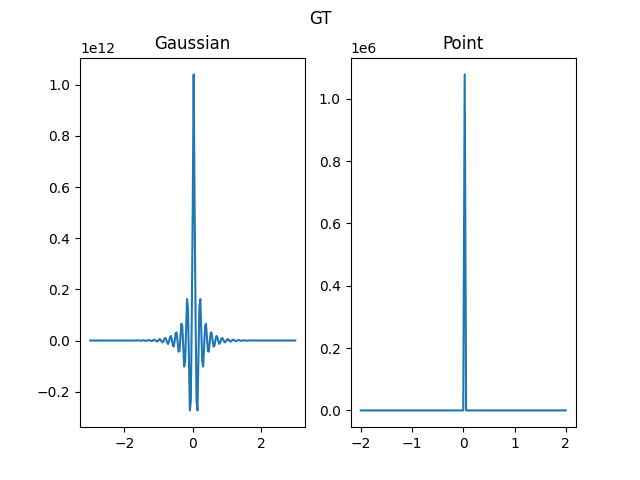
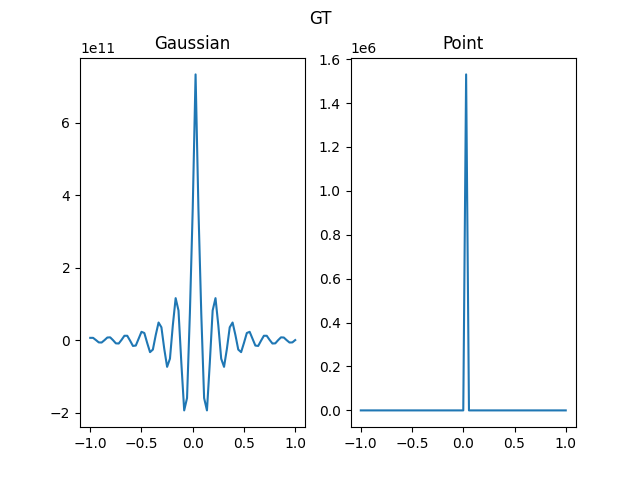
used theoretical model

diff --git a/EW-Array-Ghosts/EW_ghosts.py b/EW-Array-Ghosts/EW_ghosts.py
@@ -319,7 +319,8 @@ class T_ghost:
                     R, M, 200, 1e-9, temp, no_auto=False)
 
                 # only works with 1 source
-                # g_pq_t[j, i] = EW_theoretical_derivation.derive_from_theory(true_sky_model[0][3], N, Phi, baseline[0], baseline[1], true_sky_model[0][0], u_m, v_m)[baseline[0], baseline[1]]
+                if len(cal_sky_model) == 1 and len(true_sky_model) == 1 and not kernel:
+                    g_pq_t[j, i] = EW_theoretical_derivation.derive_from_theory(true_sky_model[0][3], N, Phi, baseline[0], baseline[1], true_sky_model[0][0], u_m, v_m)[baseline[0], baseline[1]]
 
                 r_pq[j, i] = R[baseline[0], baseline[1]]
                 m_pq[j, i] = M[baseline[0], baseline[1]]
@@ -424,7 +425,7 @@ class T_ghost:
             baseline,
         )
 
-        if (g_pq_t):
+        if len(cal_sky_model) == 1 and len(true_sky_model) == 1 and not kernel:
             self.plot_image(
                 "G_theory",
                 kernel,
@@ -488,7 +489,7 @@ if __name__ == "__main__":
 
     baseline = np.array(args.baseline)
     phi = np.array([[0, 3, 5], [-3, 0, 2], [-5, -2, 0]])
-    image_s = 3
+    image_s = 1
     s = 1
     resolution = 100
 
@@ -706,6 +707,20 @@ if __name__ == "__main__":
         )
     else:
         print("Custom Experiment")
+        print("Point Source")
+
+        t.extrapolation_function(baseline=baseline,
+                                 true_sky_model=np.array(
+                                     [[1, 0, 0]]),
+                                 cal_sky_model=np.array(
+                                     [[1, 0, 0]]),
+                                 Phi=phi,
+                                 image_s=image_s,
+                                 s=s,
+                                 resolution=resolution,
+                                 kernel=True)
+        print()
+        print("Gaussian")
         t.extrapolation_function(baseline=baseline,
                                  true_sky_model=np.array(
                                      [[1, 0, 0, 0.1]]),
@@ -716,14 +731,5 @@ if __name__ == "__main__":
                                  s=s,
                                  resolution=resolution,
                                  kernel=False)
-        # t.extrapolation_function(
-        #     baseline=baseline,
-        #     true_sky_model=np.array([[1, 0, 0]]),
-        #     cal_sky_model=np.array([[0.5, 0, 0]]),
-        #     Phi=phi,
-        #     image_s=image_s,
-        #     s=s,
-        #     resolution=resolution,
-        #     kernel=True,
-        # )
+        
     print()

diff --git a/EW-Array-Ghosts/plotNumpy.py b/EW-Array-Ghosts/plotNumpy.py
@@ -16,7 +16,7 @@ def plot_and_save(gauss, point, label):
     plt.cla()
 
 def plot_and_save_triple(gauss, point, theory, label):
-    fig, (ax1, ax2, ax3) = plt.subplots(1, 2)
+    fig, (ax1, ax2, ax3) = plt.subplots(1, 3)
     fig.suptitle(label)
     ax1.plot(gauss[1], gauss[0])
     ax1.set_title("Gaussian")
@@ -48,9 +48,9 @@ plot_and_save(R_gauss, R_point, "R")
 
 
 import os.path
-if os.path.isfile('data\G_theory.np') and os.path.isfile("data\GT_theory.np"):
-    G_theory = np.load("data\G_theory.npy")
-    GT_theory = np.load("data\GT_theory.npy")
+if os.path.isfile('data\G_theory_gauss.npy') and os.path.isfile("data\GT_theory_gauss.npy"):
+    G_theory = np.load("data\G_theory_gauss.npy")
+    GT_theory = np.load("data\GT_theory_gauss.npy")
     plot_and_save_triple(G_gauss, G_point, G_theory, "G_theory")
-    plot_and_save(GT_gauss, GT_point, GT_theory, "GT_theory")
+    plot_and_save_triple(GT_gauss, GT_point, GT_theory, "GT_theory")
 
